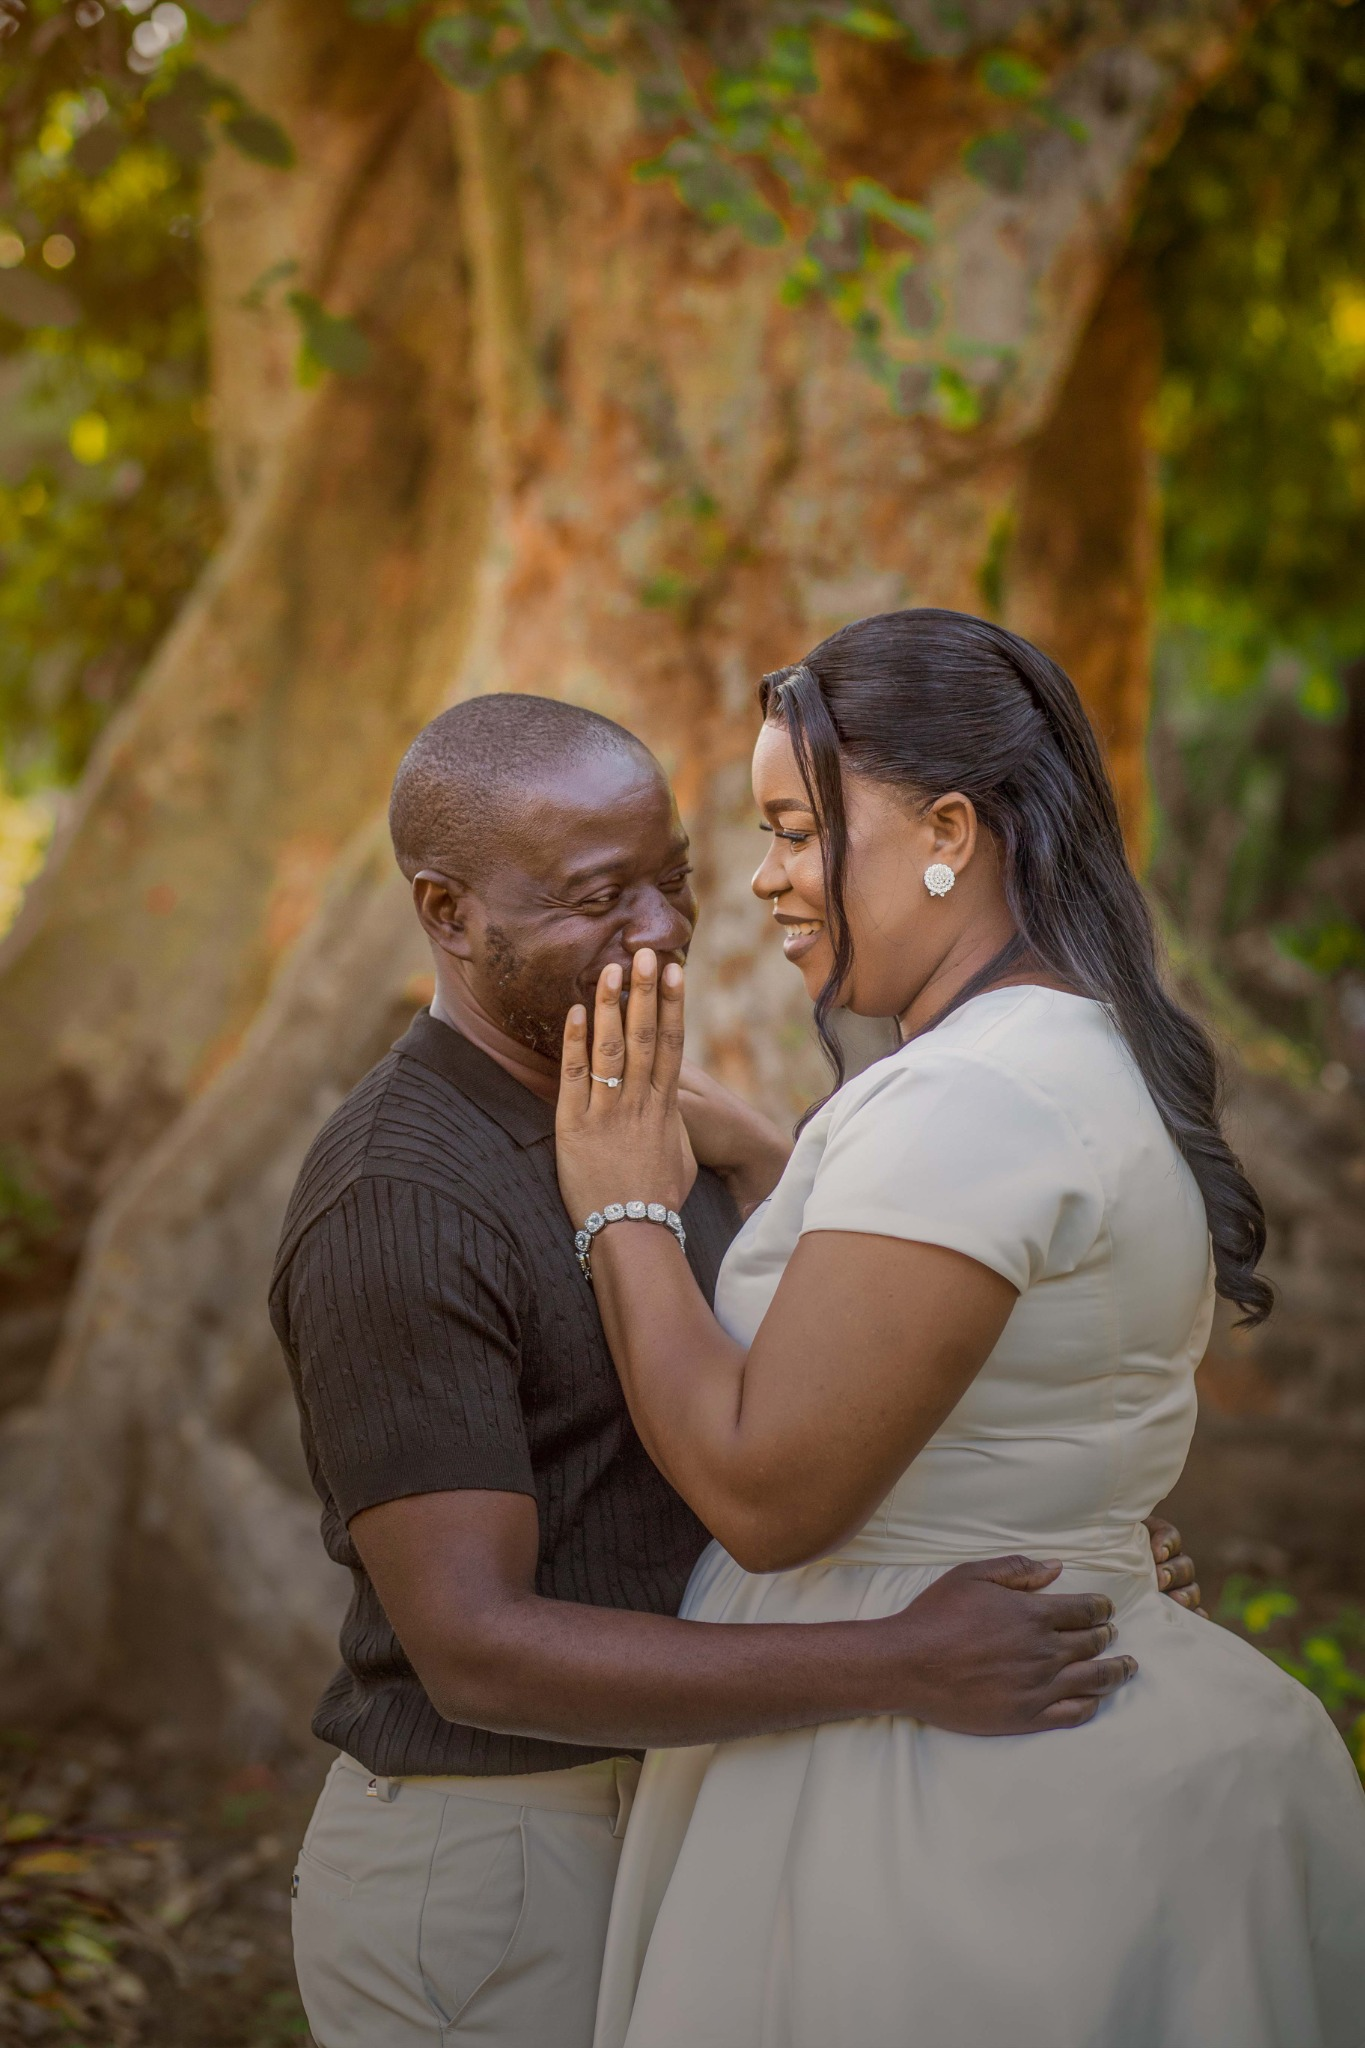
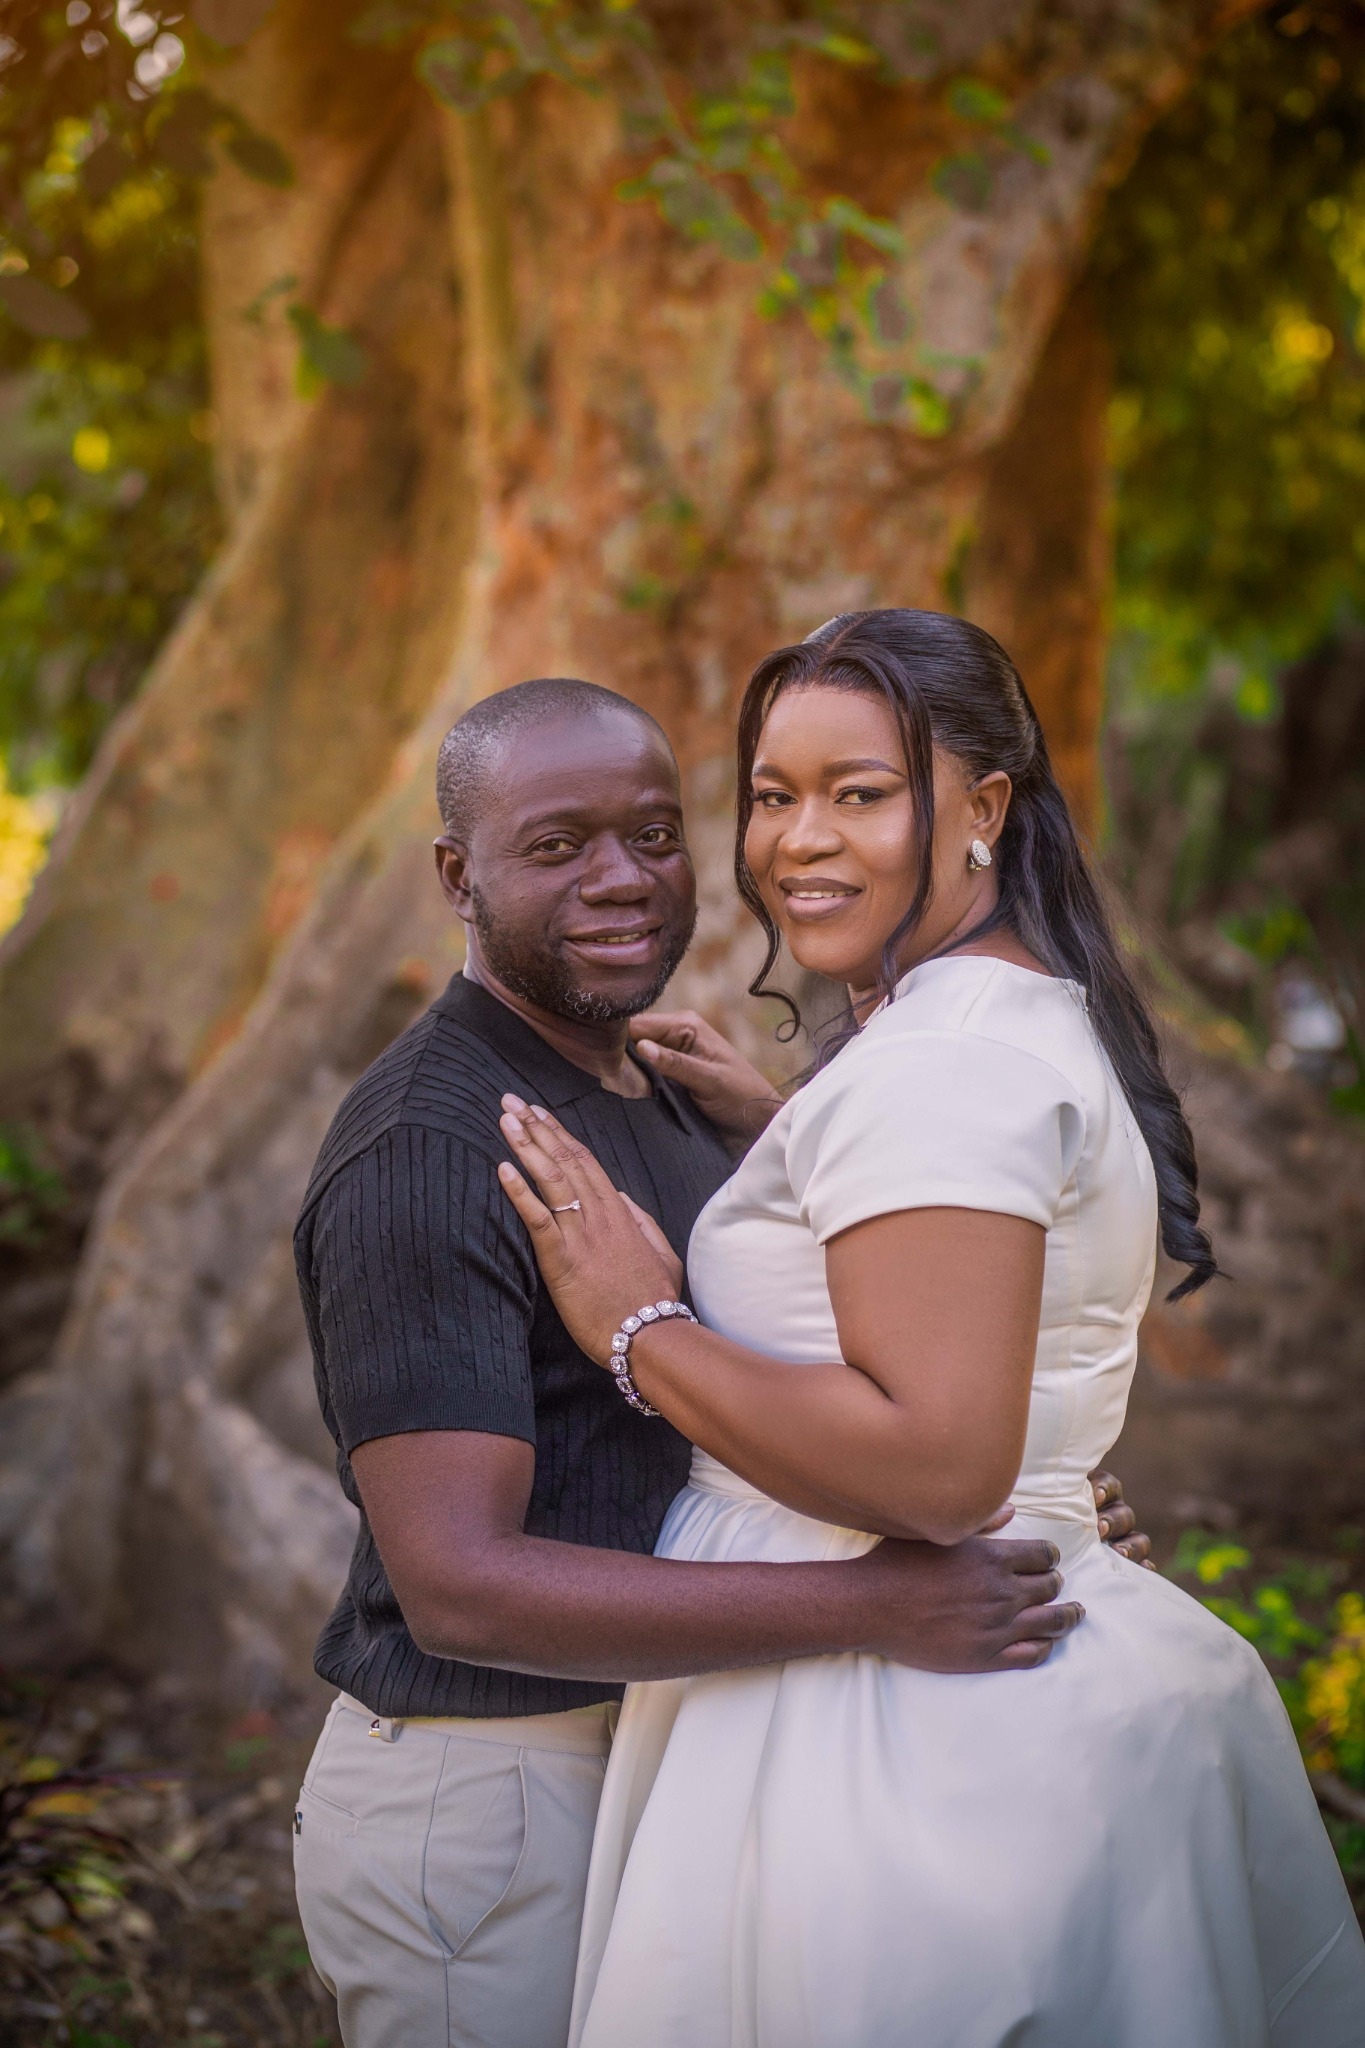
Add files via upload

diff --git a/convite/minoca-abubacar/convite.html b/convite/minoca-abubacar/convite.html
@@ -399,7 +399,7 @@
 <div class="hero-gradient-overlay"></div>
 <div class="hero-bottom-content">
 <p class="lead"><strong>Celebre connosco o nosso casamento</strong></p>
-<h1 class="names">Minoca &amp; Abubacar</h1>
+<h1 class="names">Nura &amp; Abubacar</h1>
 <p class="lead"><strong>29 de agosto de 2026</strong></p>
 <div id="countdown">
 <div><span id="days">00</span><small>Dias</small></div>
@@ -412,7 +412,7 @@
 <!--  <svg viewBox="0 0 24 24"><path d="M12 19.5l-7-7 1.5-1.5L12 16.5l5.5-5.5L19 12.5z"/></svg> -->
 </a>
 </header>
-<section class="section fade-in-section" id="familias-celebracao"><p class="verse">Com amor, gratidão e bênçãos, convidamo-lo(a) a celebrar este momento especial connosco.</p><p class="verse-reference">Minoca Isabel Muianga &amp; Abubacar Amisse Amade</p><h2 class="section-title">As Famílias</h2><p class="section-subtitle">Com a bênção da Família Muianga e da Família Amade, convidamo-lo(a) para celebrar este dia especial.</p><div class="couple-details"><div><h3>Minoca Isabel Muianga</h3><p>Filha da <strong>Família Muianga</strong></p></div><div class="decorative-ampersand">♡</div><div><h3>Abubacar Amisse Amade</h3><p>Filho da <strong>Família Amade</strong></p></div></div></section>
+<section class="section fade-in-section" id="familias-celebracao"><p class="verse">Com amor, gratidão e bênçãos, convidamo-lo(a) a celebrar este momento especial connosco.</p><p class="verse-reference">Nura Isabel Muianga &amp; Abubacar Amisse Amade</p><h2 class="section-title">As Famílias</h2><p class="section-subtitle">Com a bênção da Família Muianga e da Família Amade, convidamo-lo(a) para celebrar este dia especial.</p><div class="couple-details"><div><h3>Nura Isabel Muianga</h3><p>Filha da <strong>Família Muianga</strong></p></div><div class="decorative-ampersand">♡</div><div><h3>Abubacar Amisse Amade</h3><p>Filho da <strong>Família Amade</strong></p></div></div></section>
 <!-- SECÇÃO VINTAGE: CARTA DOS NOIVOS -->
 <!-- SECÇÃO VINTAGE: PADRINHOS & HONRA -->
 <section class="section section-highlight fade-in-section" id="agenda-evento">
@@ -470,7 +470,7 @@
 <div class="guide-grid">
 <div class="guide-item">
 <h4>Confirme a Sua Presença</h4>
-<p>Por favor, informe-nos se poderemos contar consigo até 30 de Julho de 2026.</p>
+<p>Por favor, informe-nos se poderemos contar consigo até 27 de maio de 2026.</p>
 <button class="btn btn-primary" id="rsvpBtn">Confirmar Presença</button>
 <button class="btn btn-outline" id="calendarBtn" type="button">Adicionar ao Calendário</button>
 </div>
@@ -564,7 +564,7 @@
 </div>
 </section>
 <footer class="footer fade-in-section">
-<h3 class="names">Minoca &amp; Abubacar</h3>
+<h3 class="names">Nura &amp; Abubacar</h3>
 <p>Agradecemos por fazer parte da nossa celebração. Esperamos por si!</p>
 <div class="footer-contact"><span>Celebre connosco este momento especial.</span></div>
 </footer>

diff --git a/convite/minoca-abubacar/index.html b/convite/minoca-abubacar/index.html
@@ -428,7 +428,7 @@
 </div>
 </div>
 </div>
-<h1 class="names">Minoca &amp; Abubacar</h1>
+<h1 class="names">Nura &amp; Abubacar</h1>
 <div class="date-text">29 DE AGOSTO 2026</div>
 <button class="btn-open" id="openLoginBtn">
         ABRIR CONVITE
